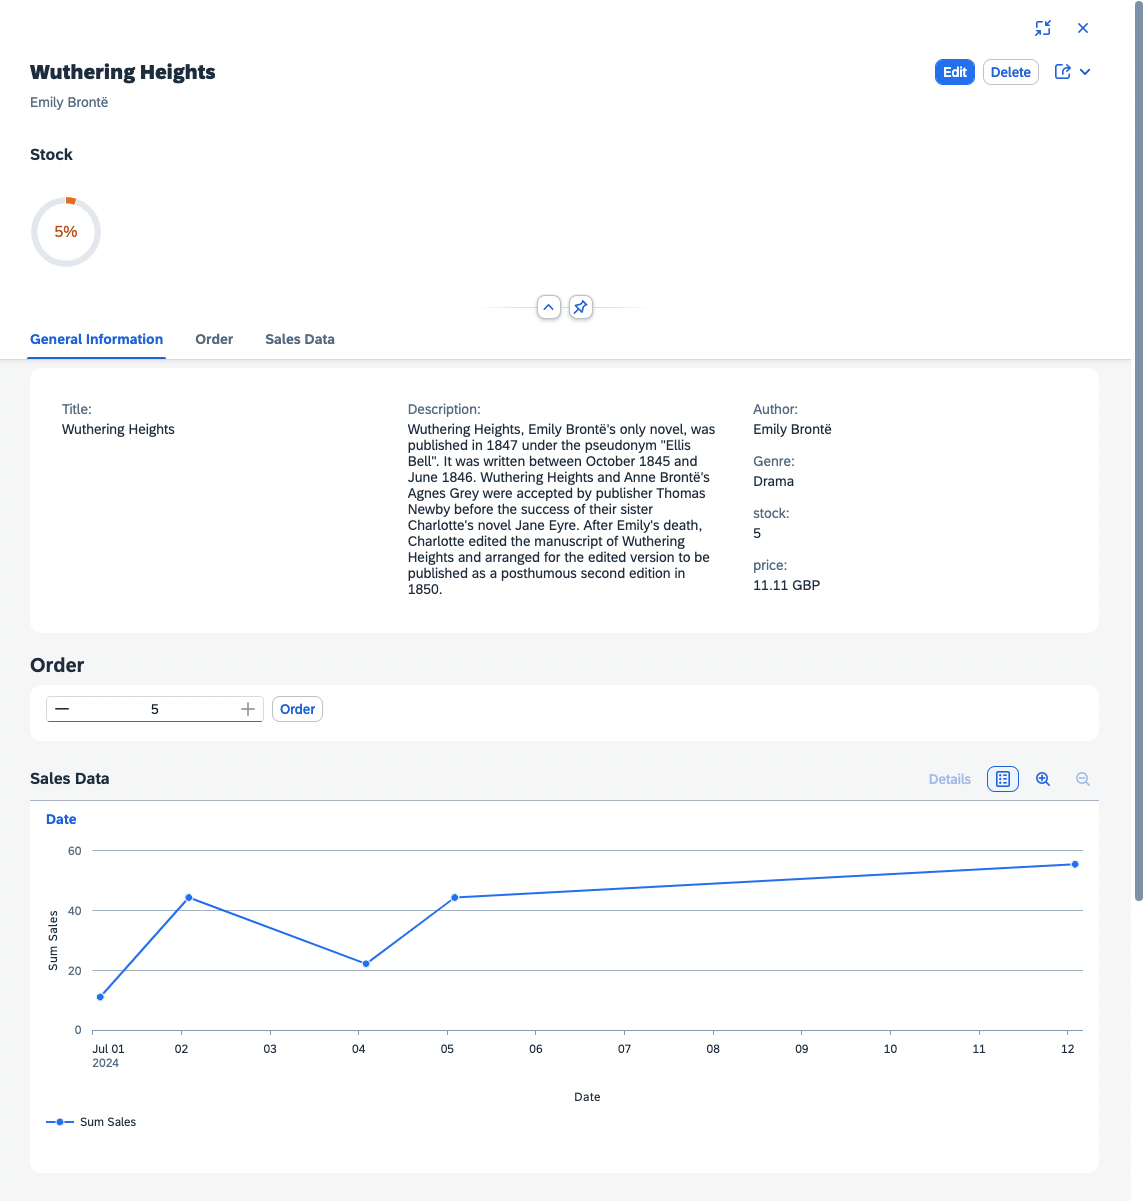
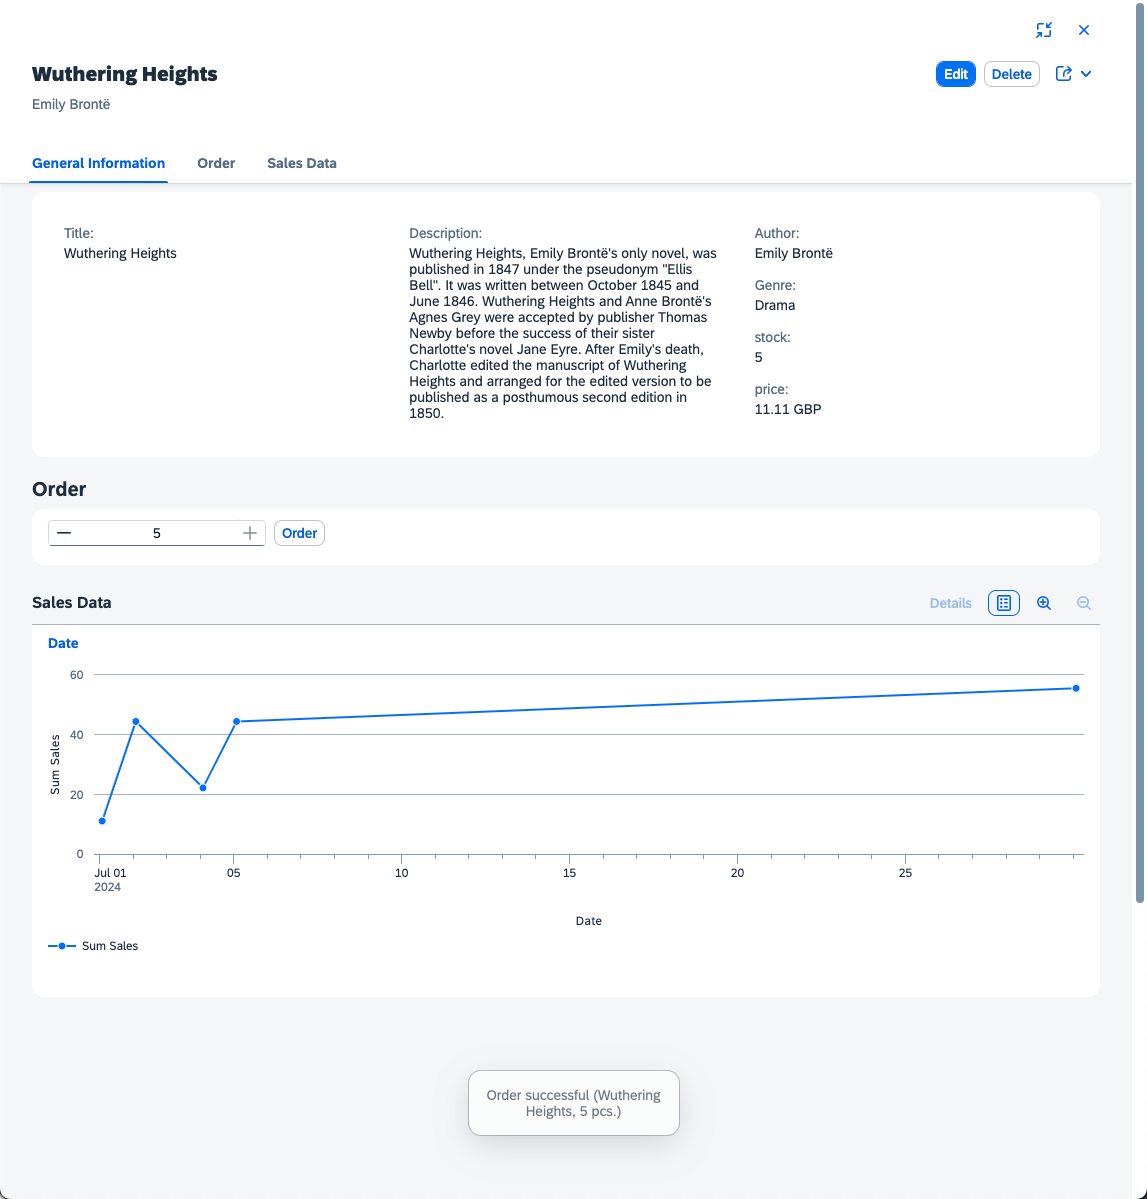
incorporate new feedback

diff --git a/bookshop/srv/cat-service.js b/bookshop/srv/cat-service.js
@@ -4,23 +4,19 @@ module.exports = function() {
 	const { Books, Sales } = cds.entities("codejam")
 
 	// reduce stock of ordered books if available stock suffices
-	this.on("submitOrder", "Books", async (req) => {
-		const book = req.params[0].ID
-		const { quantity } = req.data
+	this.on("submitOrder", "Books", async ({params:[book], data:{quantity}}) => {
 		if (quantity < 1) return req.reject(400, `quantity has to be 1 or more`)
-		let b = await SELECT.from(Books, book)
-		if (!b) return req.error(404, `Book #${book} doesn't exist`)
+		let b = await SELECT.from(Books, book.ID)
+		if (!b) return req.error(404, `Book #${book.ID} doesn't exist`)
 		let { stock, price, currency_code } = b
-		console.log(price, quantity, (price * quantity))
-		if (quantity > stock) return req.reject(409, `${quantity} exceeds stock for book #${book}`)
-		await UPDATE(Books, book).with({ stock: stock -= quantity })
+		if (quantity > stock) return req.reject(409, `${quantity} exceeds stock for book #${book.ID}`)
+		await UPDATE(Books, book.ID).with({ stock: stock -= quantity })
 		await INSERT.into(Sales).entries({
-			book_ID: book,
+			book_ID: book.ID,
 			dateTime: new Date().toISOString(),
 			price: price * quantity,
 			currency_code: currency_code
 		})
-		console.log(await SELECT(Sales).where({ book_ID: book }))
 		return { stock }
 	})
 

diff --git a/chapters/07-formatting-via-cds-annotations/readme.md b/chapters/07-formatting-via-cds-annotations/readme.md
@@ -25,6 +25,7 @@ using CatalogService as service from '../../srv/cat-service';
 // general
 annotate CatalogService.Books with {
     title @title : 'Title';
+    descr @title : 'Description';
     author @title: 'Author';
     genre @title: 'Genre';
     price @title: 'Price';
@@ -76,6 +77,55 @@ annotate CatalogService.Books with @(
             ![@UI.Criticality] : criticality // criticality for whole line item
       }
     }
+);
+
+annotate CatalogService.Sales with @(
+
+    UI.Chart                         : {
+        $Type              : 'UI.ChartDefinitionType',
+        ChartType          : #Line,
+        DynamicMeasures    : ['@Analytics.AggregatedProperty#sum'],
+        MeasureAttributes  : [{
+            $Type         : 'UI.ChartMeasureAttributeType',
+            DynamicMeasure: '@Analytics.AggregatedProperty#sum',
+            Role          : #Axis1
+        }],
+        Dimensions         : [date],
+        DimensionAttributes: [{
+            $Type    : 'UI.ChartDimensionAttributeType',
+            Dimension: date,
+            Role     : #Category
+        }]
+    },
+
+    Analytics.AggregatedProperty #sum: {
+        Name                : 'sumSales',
+        AggregationMethod   : 'sum',
+        AggregatableProperty: 'price',
+        ![@Common.Label]    : 'Sum Sales'
+    },
+
+    Aggregation.ApplySupported       : {
+        Transformations         : [
+            'aggregate',
+            'topcount',
+            'bottomcount',
+            'identity',
+            'concat',
+            'groupby',
+            'filter',
+            'top',
+            'skip',
+            'orderby',
+            'search'
+        ],
+        CustomAggregationMethods: ['Custom.concat'],
+        Rollup                  : #None,
+        PropertyRestrictions    : true,
+        GroupableProperties     : [date],
+        AggregatableProperties  : [{Property: price}]
+    }
+
 );
 ```
 
